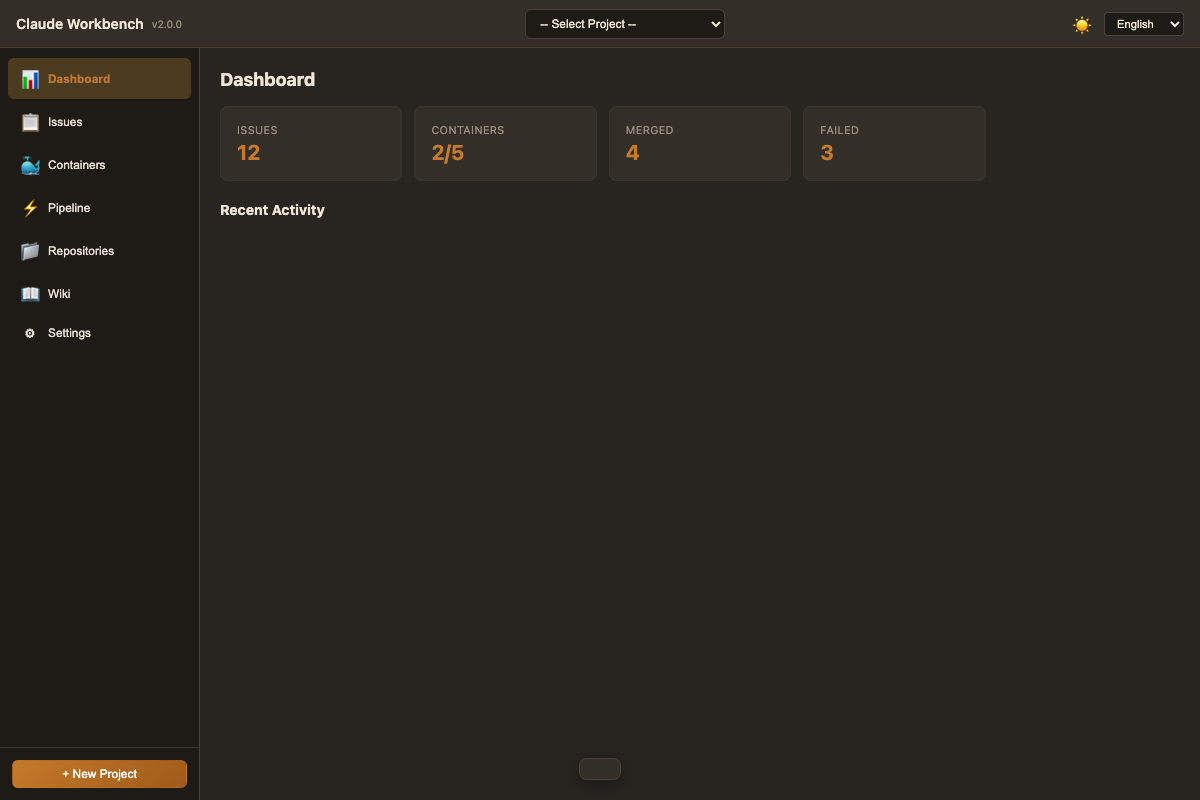
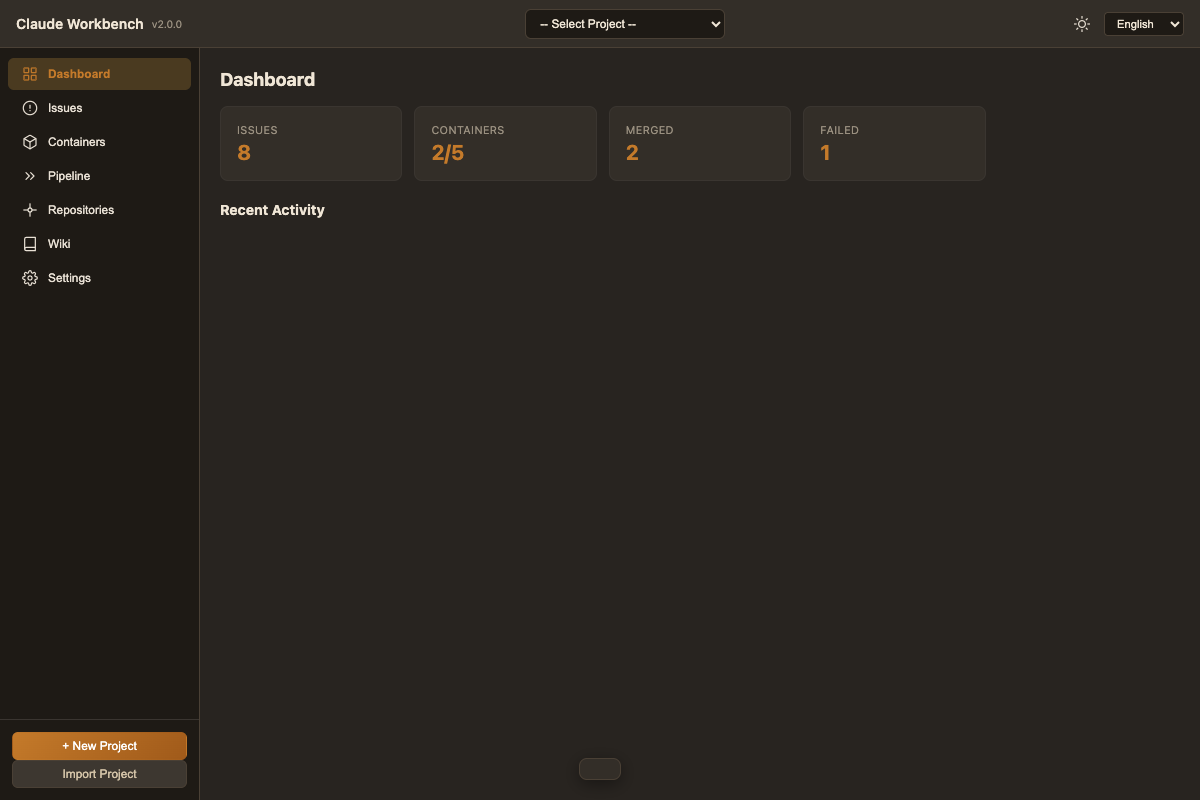
docs: retake all screenshots with updated UI
All 8 screenshots updated to reflect:
- New issue statuses (completed/merging/failed)
- Merge button on completed issues instead of auto-merge
- Settings page without merge settings (only max containers + test command)
- Import Project button in sidebar
- Pipeline view with realistic mock log data
- Dashboard with 8 issues, 2/5 containers, 2 merged, 1 failed

diff --git a/scripts/take-screenshots.js b/scripts/take-screenshots.js
@@ -1,0 +1,188 @@
+const path = require('path');
+const puppeteer = require('puppeteer');
+const fs = require('fs');
+const PROJECT_ROOT = '/Users/godaehyeon/Desktop/abc/claude-workbench';
+const SCREENSHOTS_DIR = path.join(PROJECT_ROOT, 'docs', 'screenshots');
+
+async function main() {
+  const browser = await puppeteer.launch({ headless: 'new', args: ['--no-sandbox'] });
+  const page = await browser.newPage();
+  await page.setViewport({ width: 1200, height: 800 });
+  await page.goto(`file://${path.join(PROJECT_ROOT, 'src/renderer/index.html')}`, { waitUntil: 'domcontentloaded' });
+
+  // Mock electronAPI
+  await page.evaluate(() => {
+    window.electronAPI = {
+      invoke: async (ch, data) => {
+        if (ch === 'app:version') return '2.0.0';
+        if (ch === 'project:list') return { success: true, projects: [
+          { id: '1', name: 'my-saas-app' }, { id: '2', name: 'mobile-client' }
+        ]};
+        if (ch === 'project:set-active') return { success: true };
+        if (ch === 'project:sync') return { success: true, pulled: true };
+        if (ch === 'project:get-active') return { success: true, project: {
+          id: '1', name: 'my-saas-app', issueRepoPath: '/projects/my-saas-app-issues',
+          settings: { maxContainers: 5, testCommand: 'npm test', lang: 'en' }, devRepos: []
+        }};
+        if (ch === 'project:get-dashboard') return { success: true, dashboard: {
+          project: { id: '1', name: 'my-saas-app' },
+          issueStats: { total: 8, byStatus: { created: 1, 'in-progress': 2, completed: 2, merging: 0, merged: 2, failed: 1, closed: 0 } },
+          containerStats: { total: 3, running: 2, idle: 1, max: 5 },
+          recentActivity: []
+        }};
+        if (ch === 'issue:list') return { success: true, issues: [
+          { id: 'ISSUE-001', title: 'Add OAuth2 authentication', type: 'feature', status: 'completed', priority: 'high', issueBranch: 'issue/ISSUE-001', baseBranch: 'main' },
+          { id: 'ISSUE-002', title: 'Fix session token expiry bug', type: 'bugfix', status: 'in-progress', priority: 'critical', issueBranch: 'issue/ISSUE-002', baseBranch: 'main' },
+          { id: 'ISSUE-003', title: 'Implement user profile page', type: 'feature', status: 'merged', priority: 'medium', issueBranch: 'issue/ISSUE-003', baseBranch: 'main' },
+          { id: 'ISSUE-004', title: 'Add rate limiting middleware', type: 'feature', status: 'in-progress', priority: 'medium', issueBranch: 'issue/ISSUE-004', baseBranch: 'develop' },
+          { id: 'ISSUE-005', title: 'Database connection pool optimization', type: 'feature', status: 'completed', priority: 'low', issueBranch: 'issue/ISSUE-005', baseBranch: 'main' },
+          { id: 'ISSUE-006', title: 'Fix CORS headers in API gateway', type: 'bugfix', status: 'failed', priority: 'high', issueBranch: 'issue/ISSUE-006', baseBranch: 'main' },
+          { id: 'ISSUE-007', title: 'Setup CI/CD pipeline', type: 'feature', status: 'created', priority: 'medium', issueBranch: 'issue/ISSUE-007', baseBranch: 'main' },
+          { id: 'ISSUE-008', title: 'Migrate to PostgreSQL 16', type: 'feature', status: 'merged', priority: 'high', issueBranch: 'issue/ISSUE-008', baseBranch: 'main' },
+        ]};
+        if (ch === 'container:pool-status') return { success: true, pool: {
+          projectId: '1', maxContainers: 5,
+          containers: [
+            { id: 'a1b2c3d4-1111-2222-3333-444455556666', status: 'running', assignedIssueId: 'ISSUE-002' },
+            { id: 'e5f6g7h8-1111-2222-3333-444455556666', status: 'running', assignedIssueId: 'ISSUE-004' },
+            { id: 'i9j0k1l2-1111-2222-3333-444455556666', status: 'idle' },
+          ],
+          queuedIssues: ['ISSUE-007']
+        }};
+        if (ch === 'project:repo:list') return { success: true, repos: [
+          { id: 'r1', name: 'backend-api', remoteUrl: 'https://github.com/myorg/backend-api.git', submodulePath: 'repos/backend-api' },
+          { id: 'r2', name: 'frontend-web', remoteUrl: 'https://github.com/myorg/frontend-web.git', submodulePath: 'repos/frontend-web' },
+          { id: 'r3', name: 'shared-types', remoteUrl: 'https://github.com/myorg/shared-types.git', submodulePath: 'repos/shared-types' },
+        ]};
+        if (ch === 'wiki-host:status') return { running: false };
+        if (ch === 'app:settings:get') return { success: true, settings: { dataRootPath: '/Users/dev/claude-workbench-data' } };
+        if (ch === 'app:docker:check') return { success: true, available: true, version: '24.0.7' };
+        if (ch === 'pipeline:status') return { success: true, running: true };
+        return { success: true };
+      },
+      on: () => {},
+      send: () => {}
+    };
+    document.documentElement.setAttribute('data-theme', 'dark');
+  });
+
+  // Apply i18n
+  const enLocale = JSON.parse(fs.readFileSync(path.join(PROJECT_ROOT, 'src/renderer/locales/en.json'), 'utf-8'));
+  await page.evaluate((locale) => {
+    document.querySelectorAll('[data-i18n]').forEach(el => { if (locale[el.dataset.i18n]) el.textContent = locale[el.dataset.i18n]; });
+    document.querySelectorAll('[data-i18n-placeholder]').forEach(el => { if (locale[el.dataset.i18nPlaceholder]) el.placeholder = locale[el.dataset.i18nPlaceholder]; });
+  }, enLocale);
+
+  // Load app.js
+  const appJs = fs.readFileSync(path.join(PROJECT_ROOT, 'src/renderer/scripts/app.js'), 'utf-8');
+  await page.evaluate(appJs);
+  await new Promise(r => setTimeout(r, 800));
+
+  // Hide modals
+  await page.evaluate(() => {
+    ['project-modal-overlay', 'import-modal-overlay', 'issue-modal-overlay'].forEach(id => {
+      const el = document.getElementById(id);
+      if (el) el.style.display = 'none';
+    });
+  });
+  await new Promise(r => setTimeout(r, 200));
+
+  // 1. Dashboard
+  await page.screenshot({ path: path.join(SCREENSHOTS_DIR, 'dashboard.png') });
+  console.log('1/8 dashboard.png');
+
+  // 2. Issues (list)
+  await page.evaluate(() => document.querySelector('[data-page="issues"]').click());
+  await new Promise(r => setTimeout(r, 400));
+  await page.evaluate(() => {
+    ['project-modal-overlay', 'import-modal-overlay', 'issue-modal-overlay'].forEach(id => {
+      const el = document.getElementById(id); if (el) el.style.display = 'none';
+    });
+  });
+  await new Promise(r => setTimeout(r, 100));
+  await page.screenshot({ path: path.join(SCREENSHOTS_DIR, 'issues.png') });
+  console.log('2/8 issues.png');
+
+  // 3. Issues (kanban)
+  await page.evaluate(() => { const b = document.getElementById('issues-kanban-view-btn'); if (b) b.click(); });
+  await new Promise(r => setTimeout(r, 400));
+  await page.screenshot({ path: path.join(SCREENSHOTS_DIR, 'issues-kanban.png') });
+  console.log('3/8 issues-kanban.png');
+
+  // 4. Containers
+  await page.evaluate(() => document.querySelector('[data-page="containers"]').click());
+  await new Promise(r => setTimeout(r, 400));
+  await page.screenshot({ path: path.join(SCREENSHOTS_DIR, 'containers.png') });
+  console.log('4/8 containers.png');
+
+  // 5. Pipeline (with mock logs)
+  await page.evaluate(() => document.querySelector('[data-page="pipeline"]').click());
+  await new Promise(r => setTimeout(r, 200));
+  await page.evaluate(() => {
+    const logContent = document.getElementById('pipeline-log-content');
+    const pipelineList = document.getElementById('pipeline-list');
+    if (pipelineList) {
+      pipelineList.innerHTML = [
+        '<div style="font-size:0.85rem;padding:8px 0;border-bottom:1px solid var(--border-subtle);display:flex;justify-content:space-between;"><span><strong>ISSUE-002</strong> — Fix session token expiry bug</span><span class="badge badge-status-in-progress" style="padding:2px 8px;border-radius:10px;font-size:0.72rem;">running</span></div>',
+        '<div style="font-size:0.85rem;padding:8px 0;border-bottom:1px solid var(--border-subtle);display:flex;justify-content:space-between;"><span><strong>ISSUE-004</strong> — Add rate limiting middleware</span><span class="badge badge-status-in-progress" style="padding:2px 8px;border-radius:10px;font-size:0.72rem;">running</span></div>',
+        '<div style="font-size:0.85rem;padding:8px 0;display:flex;justify-content:space-between;"><span><strong>ISSUE-001</strong> — Add OAuth2 authentication</span><span class="badge badge-status-completed" style="padding:2px 8px;border-radius:10px;font-size:0.72rem;">completed</span></div>',
+      ].join('');
+    }
+    if (logContent) {
+      logContent.innerHTML = [
+        { c: 'var(--info-text)', t: '[ISSUE-002] [system] Starting pipeline: /bugfix-teams Fix session token expiry bug' },
+        { c: 'var(--success-text)', t: '[ISSUE-002] [assistant] Analyzing bug: session tokens not refreshed on re-login...' },
+        { c: 'var(--success-text)', t: '[ISSUE-002] [assistant] Root cause identified: TokenService.refresh() skips validation' },
+        { c: 'var(--success-text)', t: '[ISSUE-002] [assistant] Writing fix in src/auth/tokenService.ts' },
+        { c: 'var(--success-text)', t: '[ISSUE-002] [assistant] Adding test: tokenService.refresh.test.ts — 5 test cases' },
+        { c: 'var(--info-text)', t: '[ISSUE-004] [system] Starting pipeline: /teams Add rate limiting middleware' },
+        { c: 'var(--success-text)', t: '[ISSUE-004] [assistant] Designing token bucket rate limiter...' },
+        { c: 'var(--success-text)', t: '[ISSUE-004] [assistant] Implementing RateLimiterMiddleware in src/middleware/rateLimiter.ts' },
+        { c: 'var(--success-text)', t: '[ISSUE-001] [assistant] All tests passed (18/18). Pipeline complete.' },
+        { c: 'var(--info-text)', t: '[ISSUE-001] [system] Pipeline completed successfully (cost: $0.38, duration: 2m 47s)' },
+      ].map(l => `<div style="color:${l.c};padding:1px 0;">${l.t}</div>`).join('');
+    }
+  });
+  await new Promise(r => setTimeout(r, 100));
+  await page.screenshot({ path: path.join(SCREENSHOTS_DIR, 'pipeline.png') });
+  console.log('5/8 pipeline.png');
+
+  // 6. Repositories
+  await page.evaluate(() => document.querySelector('[data-page="repositories"]').click());
+  await new Promise(r => setTimeout(r, 400));
+  await page.screenshot({ path: path.join(SCREENSHOTS_DIR, 'repositories.png') });
+  console.log('6/8 repositories.png');
+
+  // 7. Settings
+  await page.evaluate(() => document.querySelector('[data-page="settings"]').click());
+  await new Promise(r => setTimeout(r, 400));
+  // Fill in settings values
+  await page.evaluate(() => {
+    const mc = document.getElementById('settings-max-containers'); if (mc) mc.value = '5';
+    const tc = document.getElementById('settings-test-command'); if (tc) tc.value = 'npm test';
+    const dr = document.getElementById('settings-data-root'); if (dr) dr.value = '/Users/dev/claude-workbench-data';
+    const ds = document.getElementById('docker-status-text');
+    if (ds) { ds.textContent = 'Available (24.0.7)'; ds.style.color = 'var(--success-text)'; }
+  });
+  await new Promise(r => setTimeout(r, 100));
+  await page.screenshot({ path: path.join(SCREENSHOTS_DIR, 'settings.png') });
+  console.log('7/8 settings.png');
+
+  // 8. Issue create modal
+  await page.evaluate(() => document.querySelector('[data-page="issues"]').click());
+  await new Promise(r => setTimeout(r, 200));
+  await page.evaluate(() => { const b = document.getElementById('issues-list-view-btn'); if (b) b.click(); });
+  await new Promise(r => setTimeout(r, 200));
+  await page.evaluate(() => {
+    const btn = document.getElementById('issue-create-btn'); if (btn) btn.click();
+    const mo = document.getElementById('project-modal-overlay'); if (mo) mo.style.display = 'none';
+    const io = document.getElementById('import-modal-overlay'); if (io) io.style.display = 'none';
+  });
+  await new Promise(r => setTimeout(r, 300));
+  await page.screenshot({ path: path.join(SCREENSHOTS_DIR, 'issue-create.png') });
+  console.log('8/8 issue-create.png');
+
+  await browser.close();
+  console.log('Done!');
+}
+main().catch(e => { console.error(e); process.exit(1); });
